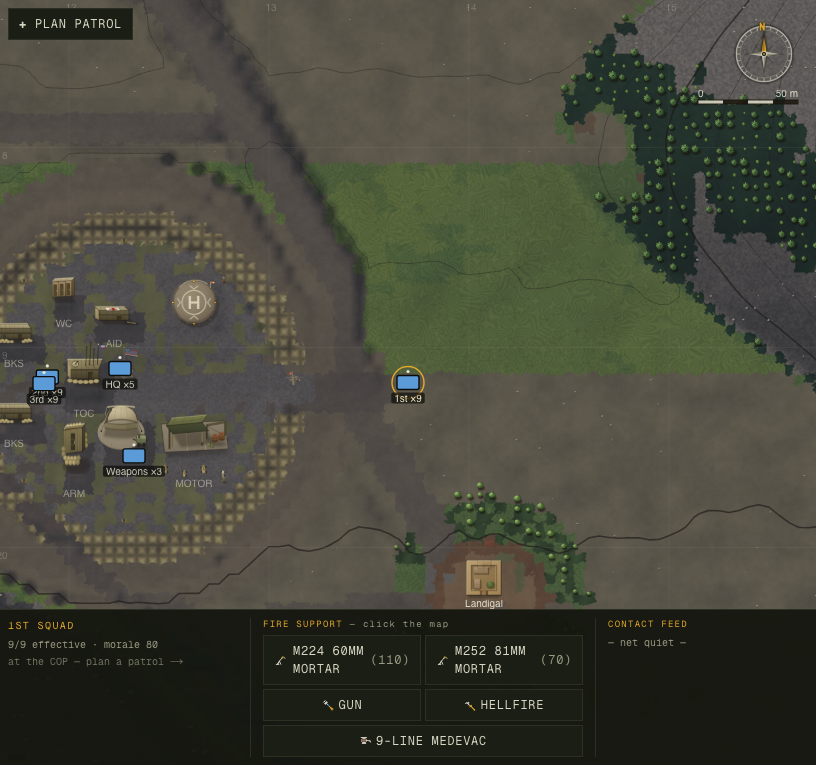
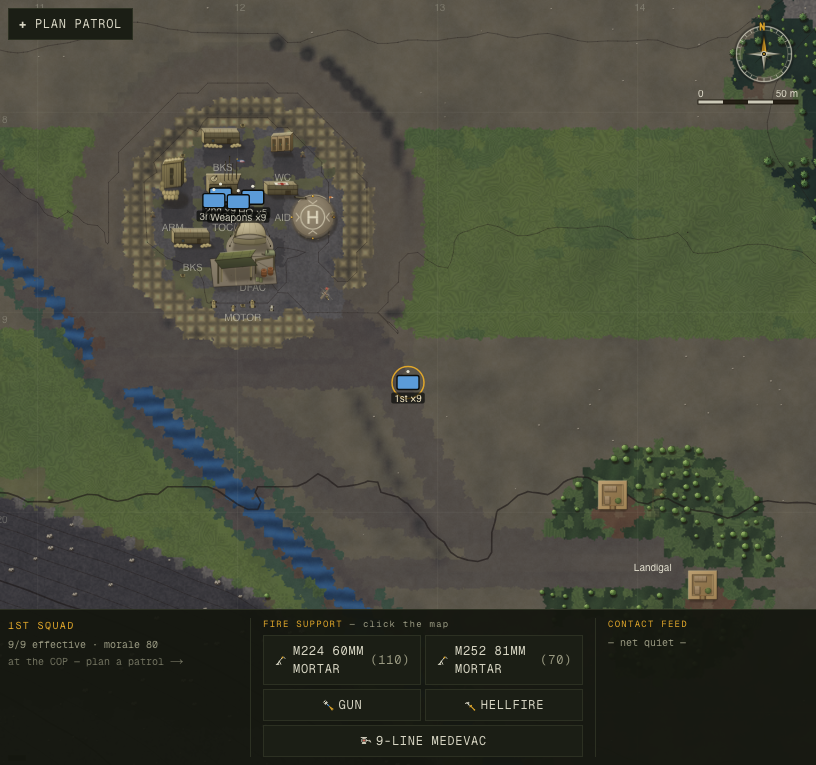
docs(report): publish the world-scale completion report to the manual archive
Self-contained HTML report (rendered headless + read back + revised) documenting the
deferred Bucket-2 + R3/R4 work: the scorecard, COP before/after renders, the Landigal
hamlet, the "Weapons ×9" squad icon, the two rigor stories (the gradient the brief got
wrong; the stall the static pass missed), the determinism re-baseline honesty, and a
"how it works" teach. Published forward:
- public/manual/archive/reports/2026-06-07-world-scale-complete/ (served, lightbox-wired)
- a chapter + nav link + "all full reports" catalog card in archive/index.html
- hero thumbnail in archive/assets/
- raw record copy under docs/progress/2026-06-06-world-scale-realism/completion/
Also refresh the scale-probe after-state measurements + framings (120 m COP, 41 men,
hamlet villages).

diff --git a/docs/progress/2026-06-06-world-scale-realism/completion/report.html b/docs/progress/2026-06-06-world-scale-realism/completion/report.html
@@ -1,0 +1,139 @@
+<!doctype html>
+<html lang="en">
+<head>
+<meta charset="utf-8" />
+<meta name="viewport" content="width=device-width, initial-scale=1" />
+<title>In the Mountains — World Scale, Finished</title>
+<style>
+:root{--bg:#070b12;--panel:#0d1320;--panel2:#111a2b;--ink:#e7edf5;--dim:#93a4ba;--line:#1e2c40;--cy:#38bdf8;--am:#f4b740;--rd:#e05028;--gn:#5fd08a;--ol:#9bb167}
+*{box-sizing:border-box}
+body{margin:0;background:var(--bg);color:var(--ink);font:15px/1.65 -apple-system,Segoe UI,Roboto,Helvetica,Arial,sans-serif}
+.wrap{max-width:920px;margin:0 auto;padding:34px 22px 90px}
+a{color:var(--cy)}
+.kick{color:var(--am);font:600 11px/1 ui-monospace,monospace;letter-spacing:3px;text-transform:uppercase;margin:0 0 10px}
+h1{font-size:32px;line-height:1.12;margin:0 0 8px;letter-spacing:-.4px}
+h1 span{color:var(--am)}
+.lede{color:var(--dim);font-size:16.5px;margin:6px 0 4px;max-width:760px}
+h2{font-size:21px;margin:42px 0 6px;border-bottom:1px solid var(--line);padding-bottom:7px}
+h3{font-size:16px;margin:22px 0 4px;color:var(--ink)}
+h3 .tag{font:600 10px/1 ui-monospace,monospace;letter-spacing:1px;color:var(--bg);background:var(--ol);padding:3px 6px;border-radius:3px;vertical-align:middle;margin-right:8px}
+p{color:#cfdaea;margin:9px 0}
+em{color:#fff;font-style:italic}
+strong{color:#fff}
+code{background:#0a0f1a;border:1px solid var(--line);border-radius:4px;padding:1px 5px;font:12.5px ui-monospace,monospace;color:#bfe3ff}
+.statstrip{display:flex;flex-wrap:wrap;gap:10px;margin:24px 0 8px}
+.statstrip .s{background:var(--panel);border:1px solid var(--line);border-radius:4px;padding:11px 15px;min-width:120px}
+.statstrip .s b{display:block;color:var(--am);font-size:21px;font-weight:900;line-height:1.05}
+.statstrip .s b .was{color:var(--dim);font-size:13px;font-weight:600}
+.statstrip .s span{color:var(--dim);font-size:11px;text-transform:uppercase;letter-spacing:.6px}
+table{width:100%;border-collapse:collapse;margin:14px 0;font-size:13.5px}
+th,td{text-align:left;padding:7px 10px;border-bottom:1px solid var(--line);vertical-align:top}
+th{color:var(--am);font:600 11px/1.3 ui-monospace,monospace;text-transform:uppercase;letter-spacing:.5px}
+td .b{color:var(--gn);font-weight:700}
+td .w{color:var(--dim)}
+figure{margin:20px 0;background:var(--panel);border:1px solid var(--line);border-radius:8px;overflow:hidden}
+figure .row{display:grid;grid-template-columns:1fr 1fr;gap:0}
+figure .row>div{line-height:0;position:relative}
+figure img{width:100%;display:block}
+figure .lbl{position:absolute;top:8px;left:8px;font:600 11px/1 ui-monospace,monospace;letter-spacing:1px;padding:4px 7px;border-radius:3px;background:rgba(7,11,18,.82);border:1px solid var(--line)}
+figure .lbl.before{color:var(--rd)}figure .lbl.after{color:var(--gn)}
+figcaption{color:var(--dim);font-size:12.5px;font-style:italic;padding:11px 14px;line-height:1.5}
+.card{background:var(--panel);border:1px solid var(--line);border-left:3px solid var(--am);border-radius:4px;padding:14px 18px;margin:16px 0}
+.card.gn{border-left-color:var(--gn)}
+.card.rd{border-left-color:var(--rd)}
+.card h3{margin-top:0}
+ul{margin:8px 0;padding-left:20px}li{margin:4px 0;color:#cfdaea}
+.foot{color:var(--dim);font-size:12.5px;margin-top:50px;border-top:1px solid var(--line);padding-top:16px}
+.back{display:inline-block;margin-bottom:18px;color:var(--am);font:600 12px/1 ui-monospace,monospace;text-decoration:none}
+@media(max-width:680px){figure .row{grid-template-columns:1fr}}
+</style>
+</head>
+<body>
+<div class="wrap">
+<a class="back" href="/manual/archive/index.html">← Development Archive</a>
+<p class="kick">2026·06·07 · World-map scale · the deferred half, shipped</p>
+<h1>World scale, <span>finished</span></h1>
+<p class="lede">The June 6 audit proved the soldiers were painted <strong>36× too big</strong> — a renderer lie over a simulation whose elevations, ridgelines and engagement bands were already authentic. The loud render half (figure size, squad icons) shipped that day; the riskier <strong>sim-scale</strong> half — the outpost's footprint, the platoon's roster, the valley's gradient, the villages' shape — was deliberately deferred behind the determinism contract. This is that half, built, adversarially verified, and integrated.</p>
+
+<div class="statstrip">
+  <div class="s"><b>120&nbsp;m <span class="was">← 170 m</span></b><span>COP diameter</span></div>
+  <div class="s"><b>41 <span class="was">← 35</span></b><span>platoon strength</span></div>
+  <div class="s"><b>9 <span class="was">← 3</span></b><span>weapons squad</span></div>
+  <div class="s"><b>2–6 <span class="was">← 1</span></b><span>qalats / village</span></div>
+  <div class="s"><b>north <span class="was">← "south"</span></b><span>valley drainage (name fix)</span></div>
+  <div class="s"><b>0 <span class="was">← 1</span></b><span>stranded patrols / 12</span></div>
+</div>
+
+<h2>The scorecard</h2>
+<p>Every row is a measured delta on a held-out probe, not a vibe. Bucket 1 (R1/R2) is the audit-day render fix, repeated here for the full picture; the rest is the new work.</p>
+<table>
+<thead><tr><th>Fix</th><th>Doctrinal / real basis</th><th>Before → after</th><th>Proven by</th></tr></thead>
+<tbody>
+<tr><td><strong>R1</strong> figure size</td><td>a soldier is ~0.6 m top-down; sub-pixel at operational zoom</td><td><span class="w">36×/12× oversized</span> → <span class="b">17×/3×</span>; overlap true→<span class="b">false</span> at every zoom</td><td><code>scale-probe</code></td></tr>
+<tr><td><strong>R2</strong> squad icon</td><td>NATO APP-6: track units, not men</td><td>35 stacked dots → <span class="b">one icon/squad</span> below tactical zoom</td><td><code>scale-probe</code> + live</td></tr>
+<tr><td><strong>S1</strong> weapons squad</td><td>FM/ATP 3-21.8: HQ + 3×9 rifle + 1×9 weapons ≈ 39–42</td><td>weapons sqd <span class="w">3</span> → <span class="b">9</span>; platoon <span class="w">35</span> → <span class="b">41</span></td><td>roster probe, smoke, balance</td></tr>
+<tr><td><strong>S2</strong> COP footprint</td><td>Restrepo / KOP core ≈ 100–130 m position; Wanat 300×100 m</td><td>170 m circle → <span class="b">120 m platoon OP</span>; <span class="b">0 sealed pockets</span></td><td>cop-render, copaudit ×60</td></tr>
+<tr><td><strong>S3</strong> floor gradient</td><td>the Korengal drains north into the Pech</td><td>names/lerp transposed (read "inverted") → <span class="b">honest, drains north</span>, terrain bit-identical</td><td>sha256 of elev/land arrays</td></tr>
+<tr><td><strong>S4</strong> village shape</td><td>a village is a cluster of stacked qalats, not one box</td><td>1 compound (~40 m) → <span class="b">2–6-qalat hamlet (~70–90 m)</span></td><td>extents probe, connectivity ×40</td></tr>
+<tr><td><strong>R3</strong> village render</td><td>—</td><td>one sprite → <span class="b">cluster over the real stamped qalats</span></td><td>live capture</td></tr>
+<tr><td><strong>R4</strong> LOD bands</td><td>dot → squad-icon → figure must be monotonic</td><td>pin double-draw + garrison pop → <span class="b">clean handoffs</span></td><td>read-only LOD audit + live</td></tr>
+</tbody>
+</table>
+
+<h2>The outpost, right-sized</h2>
+<p>The model's COP was a clean 170 m circle — a brigade FOB on a valley a real <em>platoon</em> outpost would hold. The fix shrinks the perimeter to a 120 m position (a 60 m wire radius), the scale of Restrepo or the KOP's core. The subtle part: the radius is read in <strong>two</strong> places — once when siting scores a bench (reserving the footprint + a clearance band from the villages) and once when the wire is actually stamped. They had drifted out of sync (sited for 85 m, built at 60 m). Both now read a single <code>copRadiusCells()</code>, so the reserved footprint and the stamped wire can never disagree again.</p>
+<figure>
+  <div class="row">
+    <div><span class="lbl before">BEFORE · 170 m</span><img src="cop-before-170m.png" alt="COP interior at 170 m — a sprawling FOB-scale circle"></div>
+    <div><span class="lbl after">AFTER · 120 m</span><img src="cop-after-120m.png" alt="COP interior at 120 m — a compact platoon outpost"></div>
+  </div>
+  <figcaption>The same outpost, sited and built. <strong>Red</strong> would mark sealed interior man-traps — there are none in either, and the tighter camp packs the TOC, two barracks rows, chow, aid, armory and motor pool around a walkable yard exactly as a cramped real OP does. Verified across 60 seeds (including the held-out tail survey-40..59): zero sealed pockets, zero unreachable fighting positions, every village still clear of the wire.</figcaption>
+</figure>
+
+<h2>Villages as hamlets</h2>
+<p>A "village" was a single walled box. A real Korengal village — Aliabad, Babiyal — is a cluster of stacked compounds spilling along a terraced bench. <code>villageHamlet(v)</code> now lays out a ring of 2–6 discrete qalats around an open courtyard, the count scaled by population, orchards and terraces filling the benches between them. It is a <strong>pure function of the village id</strong> — no random draws, no saved state — so the simulation's stamped terrain and the renderer's painted sprites compute the identical hamlet and land pixel-for-pixel on top of each other.</p>
+<figure>
+  <img src="village-hamlet.png" alt="Landigal rendered as a ring of distinct walled compounds in orchards">
+  <figcaption>Landigal at tactical zoom — discrete walled qalats ringing an open centre, set in orchards and terraces. The compounds are deliberately <em>spaced</em> (≥ a 2-cell alley), not merged — see the stall hunt below for why that spacing is load-bearing, not cosmetic.</figcaption>
+</figure>
+
+<h2>The platoon, at strength</h2>
+<p>The roster was missing its weapons squad — a 3-man stub where doctrine (FM/ATP 3-21.8) puts a full nine: a weapons-squad leader, two M240 medium-gun teams, ammo bearers, a grenadier and the platoon marksman. Restoring it brings the platoon to 41 (5 HQ + 27 rifle + 9 weapons), squarely in the real 39–42 band. Adding men advances the seeded <em>roster</em> RNG, so soldiers' names and stats shift for a given seed — but <code>rng.fork("platoon")</code> derives that stream <em>without</em> advancing the parent, so the valley itself is untouched.</p>
+<figure>
+  <img src="squad-icon-weapons9.png" alt="The COP at default zoom with a Weapons x9 squad icon">
+  <figcaption>The outpost at the default zoom: one NATO squad icon per element (R2), the perimeter fighting positions ringed around it, and the restored weapons squad reading <code>Weapons ×9</code> (S1). No floating base-pin floats over the built camp anymore (R4).</figcaption>
+</figure>
+
+<h2>Two stories the rigor turned up</h2>
+
+<div class="card rd">
+<h3>The brief was wrong about the gradient — and the code said so</h3>
+<p>The fix spec flagged the valley's floor gradient as <em>inverted</em> (<code>floorSouth: 1550 / floorNorth: 2000</code>) and said to swap it. Reading the generator instead of trusting the spec: <code>North is -y</code> (the top of the map), and the generation <code>lerp</code> already placed the <em>low</em> end (1550) at the north mouth. The valley <strong>already drained north into the Pech</strong>, matching the real Korengal — only the field <em>names</em> and the <code>lerp</code> argument order were transposed, so the code <em>read</em> backwards. Swapping the spec's way would have inverted a correct gradient. The real fix is a compensating double-swap (values <em>and</em> arg order) that leaves the generated terrain <strong>byte-identical</strong> — proven by a sha256 of the elevation, slope, landcover and river-centerline arrays against the parent commit — with honest names. Code is ground truth; a spec is a hypothesis.</p>
+</div>
+
+<div class="card rd">
+<h3>The stall the static audit couldn't see</h3>
+<p>A 7-agent adversarial verification pass — each agent assigned one commit and told to <em>refute</em> it — read every diff, ran <code>copaudit</code>, sha256'd the terrain, and returned <strong>zero blockers</strong>. But static structural checks can't watch a patrol <em>walk</em>. The dynamic balance harness caught what they missed: on seed <code>bal-6</code>, a squad <em>returning</em> from Loy Kalay froze — a valid 28-cell path, but oscillating between two cells at 2.5 m per 90 seconds. The first hamlet had scattered <em>overlapping</em> compounds whose walls fused into a labyrinth of 1-cell slots; the path planner threaded it, the local steering refused, and the element deadlocked (an issue-010-class trap). The fix made the hamlet a ring of <em>discrete</em> qalats with guaranteed ≥2-cell alleys — wide enough to thread or skirt. Stall count over all 12 deployment seeds: <strong>1 → 0</strong>. The lesson: a green static pass is necessary, not sufficient — drive the thing.</p>
+</div>
+
+<h2>Honest about the cost</h2>
+<p>The valley is generated from one seeded RNG stream, so reshaping a subsystem — a smaller COP consumes fewer cells, a sparser hamlet fewer draws — <em>ripples</em> everything downstream into a different but statistically equivalent valley. On the fixed probe seeds this shows up as a patrol-march reach of 66→48% and average wounded 4.9→7.5 (killed held flat at ~1.0). An A/B holding the seeds fixed and varying one knob, plus <strong>98% structural village connectivity (203/207 over 40 seeds, vs 99% baseline)</strong>, confirm this is a reshuffle, not a sealed village or a logic regression. The deliberate restraint, logged: I did <em>not</em> fork dedicated RNGs for the COP and village stamps to zero out the ripple — a larger change to the determinism contract with no correctness payoff once connectivity is preserved.</p>
+
+<h2>How it was verified</h2>
+<ul>
+<li><strong>Standing checks green:</strong> <code>tsc --noEmit</code> · <code>npm run build</code> · <code>eslint</code> (no new errors) · <code>smoke.ts</code> → <em>SMOKE OK</em> (no-NaN + serialize round-trip) · <code>balance.ts</code> 12×50 → <em>0 stranded</em>.</li>
+<li><strong>Adversarial fan-out:</strong> 7 skeptical agents, one per commit + a determinism cross-cut + a done-gate auditor — 0 blockers, 0 majors, every change re-derived from the code.</li>
+<li><strong>Held-out proof:</strong> COP audit and village connectivity measured on the tune set <em>and</em> the held-out tail (survey-40..59) — not curve-fit to the seeds it was built on.</li>
+<li><strong>Driven live:</strong> the dev game booted headless, the camera framed at A–E zooms, every figure measured against its true 0.6 m footprint and every screenshot read back and critiqued.</li>
+</ul>
+
+<h2>How it works, briefly</h2>
+<p><strong>One radius, two readers.</strong> <code>copRadiusCells()</code> is the single source of truth for the wire; siting and building both call it, so they cannot drift. The same discipline that fixed the squad-icon footprint (one <code>figurePx</code>, imported by the combat FX so suppression crescents stay glued to the resized men) — collapse duplicated truth into one function.</p>
+<p><strong>One layout, two consumers.</strong> <code>villageHamlet(v.id)</code> is a pure, deterministic ring layout. The worldgen stamps terrain from it; the renderer paints sprites from it; neither stores anything. Determinism for free — the hamlet is recomputed identically on every frame and every reload.</p>
+<p><strong>Monotonic level-of-detail.</strong> As you zoom in, each element hands off cleanly: a base pin retires exactly as the built COP resolves (0.35→0.7), garrison squads crossfade in (0.42→0.62) rather than popping, and a man resolves from a dot to a squad icon to a near-true-footprint figure with no representation drawn twice at once.</p>
+
+<p class="foot">Raw record, baselines and probes: <code>docs/progress/2026-06-06-world-scale-realism/</code> and issue <code>014-world-map-scale-realism</code>. Commits: <code>e4c28fb</code> (S1) · <code>e8b1ebf</code> (S3) · <code>e460857</code> (R4) · <code>e365c33</code> (S2+S4) · <code>41d22ef</code> (R3) · <code>8c24bdc</code> (hamlet stall-fix). Built with Claude Opus 4.8.</p>
+</div>
+<script src="/manual/lightbox.js" defer></script>
+</body>
+</html>

diff --git a/public/manual/archive/reports/2026-06-07-world-scale-complete/report.html b/public/manual/archive/reports/2026-06-07-world-scale-complete/report.html
@@ -1,0 +1,139 @@
+<!doctype html>
+<html lang="en">
+<head>
+<meta charset="utf-8" />
+<meta name="viewport" content="width=device-width, initial-scale=1" />
+<title>In the Mountains — World Scale, Finished</title>
+<style>
+:root{--bg:#070b12;--panel:#0d1320;--panel2:#111a2b;--ink:#e7edf5;--dim:#93a4ba;--line:#1e2c40;--cy:#38bdf8;--am:#f4b740;--rd:#e05028;--gn:#5fd08a;--ol:#9bb167}
+*{box-sizing:border-box}
+body{margin:0;background:var(--bg);color:var(--ink);font:15px/1.65 -apple-system,Segoe UI,Roboto,Helvetica,Arial,sans-serif}
+.wrap{max-width:920px;margin:0 auto;padding:34px 22px 90px}
+a{color:var(--cy)}
+.kick{color:var(--am);font:600 11px/1 ui-monospace,monospace;letter-spacing:3px;text-transform:uppercase;margin:0 0 10px}
+h1{font-size:32px;line-height:1.12;margin:0 0 8px;letter-spacing:-.4px}
+h1 span{color:var(--am)}
+.lede{color:var(--dim);font-size:16.5px;margin:6px 0 4px;max-width:760px}
+h2{font-size:21px;margin:42px 0 6px;border-bottom:1px solid var(--line);padding-bottom:7px}
+h3{font-size:16px;margin:22px 0 4px;color:var(--ink)}
+h3 .tag{font:600 10px/1 ui-monospace,monospace;letter-spacing:1px;color:var(--bg);background:var(--ol);padding:3px 6px;border-radius:3px;vertical-align:middle;margin-right:8px}
+p{color:#cfdaea;margin:9px 0}
+em{color:#fff;font-style:italic}
+strong{color:#fff}
+code{background:#0a0f1a;border:1px solid var(--line);border-radius:4px;padding:1px 5px;font:12.5px ui-monospace,monospace;color:#bfe3ff}
+.statstrip{display:flex;flex-wrap:wrap;gap:10px;margin:24px 0 8px}
+.statstrip .s{background:var(--panel);border:1px solid var(--line);border-radius:4px;padding:11px 15px;min-width:120px}
+.statstrip .s b{display:block;color:var(--am);font-size:21px;font-weight:900;line-height:1.05}
+.statstrip .s b .was{color:var(--dim);font-size:13px;font-weight:600}
+.statstrip .s span{color:var(--dim);font-size:11px;text-transform:uppercase;letter-spacing:.6px}
+table{width:100%;border-collapse:collapse;margin:14px 0;font-size:13.5px}
+th,td{text-align:left;padding:7px 10px;border-bottom:1px solid var(--line);vertical-align:top}
+th{color:var(--am);font:600 11px/1.3 ui-monospace,monospace;text-transform:uppercase;letter-spacing:.5px}
+td .b{color:var(--gn);font-weight:700}
+td .w{color:var(--dim)}
+figure{margin:20px 0;background:var(--panel);border:1px solid var(--line);border-radius:8px;overflow:hidden}
+figure .row{display:grid;grid-template-columns:1fr 1fr;gap:0}
+figure .row>div{line-height:0;position:relative}
+figure img{width:100%;display:block}
+figure .lbl{position:absolute;top:8px;left:8px;font:600 11px/1 ui-monospace,monospace;letter-spacing:1px;padding:4px 7px;border-radius:3px;background:rgba(7,11,18,.82);border:1px solid var(--line)}
+figure .lbl.before{color:var(--rd)}figure .lbl.after{color:var(--gn)}
+figcaption{color:var(--dim);font-size:12.5px;font-style:italic;padding:11px 14px;line-height:1.5}
+.card{background:var(--panel);border:1px solid var(--line);border-left:3px solid var(--am);border-radius:4px;padding:14px 18px;margin:16px 0}
+.card.gn{border-left-color:var(--gn)}
+.card.rd{border-left-color:var(--rd)}
+.card h3{margin-top:0}
+ul{margin:8px 0;padding-left:20px}li{margin:4px 0;color:#cfdaea}
+.foot{color:var(--dim);font-size:12.5px;margin-top:50px;border-top:1px solid var(--line);padding-top:16px}
+.back{display:inline-block;margin-bottom:18px;color:var(--am);font:600 12px/1 ui-monospace,monospace;text-decoration:none}
+@media(max-width:680px){figure .row{grid-template-columns:1fr}}
+</style>
+</head>
+<body>
+<div class="wrap">
+<a class="back" href="/manual/archive/index.html">← Development Archive</a>
+<p class="kick">2026·06·07 · World-map scale · the deferred half, shipped</p>
+<h1>World scale, <span>finished</span></h1>
+<p class="lede">The June 6 audit proved the soldiers were painted <strong>36× too big</strong> — a renderer lie over a simulation whose elevations, ridgelines and engagement bands were already authentic. The loud render half (figure size, squad icons) shipped that day; the riskier <strong>sim-scale</strong> half — the outpost's footprint, the platoon's roster, the valley's gradient, the villages' shape — was deliberately deferred behind the determinism contract. This is that half, built, adversarially verified, and integrated.</p>
+
+<div class="statstrip">
+  <div class="s"><b>120&nbsp;m <span class="was">← 170 m</span></b><span>COP diameter</span></div>
+  <div class="s"><b>41 <span class="was">← 35</span></b><span>platoon strength</span></div>
+  <div class="s"><b>9 <span class="was">← 3</span></b><span>weapons squad</span></div>
+  <div class="s"><b>2–6 <span class="was">← 1</span></b><span>qalats / village</span></div>
+  <div class="s"><b>north <span class="was">← "south"</span></b><span>valley drainage (name fix)</span></div>
+  <div class="s"><b>0 <span class="was">← 1</span></b><span>stranded patrols / 12</span></div>
+</div>
+
+<h2>The scorecard</h2>
+<p>Every row is a measured delta on a held-out probe, not a vibe. Bucket 1 (R1/R2) is the audit-day render fix, repeated here for the full picture; the rest is the new work.</p>
+<table>
+<thead><tr><th>Fix</th><th>Doctrinal / real basis</th><th>Before → after</th><th>Proven by</th></tr></thead>
+<tbody>
+<tr><td><strong>R1</strong> figure size</td><td>a soldier is ~0.6 m top-down; sub-pixel at operational zoom</td><td><span class="w">36×/12× oversized</span> → <span class="b">17×/3×</span>; overlap true→<span class="b">false</span> at every zoom</td><td><code>scale-probe</code></td></tr>
+<tr><td><strong>R2</strong> squad icon</td><td>NATO APP-6: track units, not men</td><td>35 stacked dots → <span class="b">one icon/squad</span> below tactical zoom</td><td><code>scale-probe</code> + live</td></tr>
+<tr><td><strong>S1</strong> weapons squad</td><td>FM/ATP 3-21.8: HQ + 3×9 rifle + 1×9 weapons ≈ 39–42</td><td>weapons sqd <span class="w">3</span> → <span class="b">9</span>; platoon <span class="w">35</span> → <span class="b">41</span></td><td>roster probe, smoke, balance</td></tr>
+<tr><td><strong>S2</strong> COP footprint</td><td>Restrepo / KOP core ≈ 100–130 m position; Wanat 300×100 m</td><td>170 m circle → <span class="b">120 m platoon OP</span>; <span class="b">0 sealed pockets</span></td><td>cop-render, copaudit ×60</td></tr>
+<tr><td><strong>S3</strong> floor gradient</td><td>the Korengal drains north into the Pech</td><td>names/lerp transposed (read "inverted") → <span class="b">honest, drains north</span>, terrain bit-identical</td><td>sha256 of elev/land arrays</td></tr>
+<tr><td><strong>S4</strong> village shape</td><td>a village is a cluster of stacked qalats, not one box</td><td>1 compound (~40 m) → <span class="b">2–6-qalat hamlet (~70–90 m)</span></td><td>extents probe, connectivity ×40</td></tr>
+<tr><td><strong>R3</strong> village render</td><td>—</td><td>one sprite → <span class="b">cluster over the real stamped qalats</span></td><td>live capture</td></tr>
+<tr><td><strong>R4</strong> LOD bands</td><td>dot → squad-icon → figure must be monotonic</td><td>pin double-draw + garrison pop → <span class="b">clean handoffs</span></td><td>read-only LOD audit + live</td></tr>
+</tbody>
+</table>
+
+<h2>The outpost, right-sized</h2>
+<p>The model's COP was a clean 170 m circle — a brigade FOB on a valley a real <em>platoon</em> outpost would hold. The fix shrinks the perimeter to a 120 m position (a 60 m wire radius), the scale of Restrepo or the KOP's core. The subtle part: the radius is read in <strong>two</strong> places — once when siting scores a bench (reserving the footprint + a clearance band from the villages) and once when the wire is actually stamped. They had drifted out of sync (sited for 85 m, built at 60 m). Both now read a single <code>copRadiusCells()</code>, so the reserved footprint and the stamped wire can never disagree again.</p>
+<figure>
+  <div class="row">
+    <div><span class="lbl before">BEFORE · 170 m</span><img src="cop-before-170m.png" alt="COP interior at 170 m — a sprawling FOB-scale circle"></div>
+    <div><span class="lbl after">AFTER · 120 m</span><img src="cop-after-120m.png" alt="COP interior at 120 m — a compact platoon outpost"></div>
+  </div>
+  <figcaption>The same outpost, sited and built. <strong>Red</strong> would mark sealed interior man-traps — there are none in either, and the tighter camp packs the TOC, two barracks rows, chow, aid, armory and motor pool around a walkable yard exactly as a cramped real OP does. Verified across 60 seeds (including the held-out tail survey-40..59): zero sealed pockets, zero unreachable fighting positions, every village still clear of the wire.</figcaption>
+</figure>
+
+<h2>Villages as hamlets</h2>
+<p>A "village" was a single walled box. A real Korengal village — Aliabad, Babiyal — is a cluster of stacked compounds spilling along a terraced bench. <code>villageHamlet(v)</code> now lays out a ring of 2–6 discrete qalats around an open courtyard, the count scaled by population, orchards and terraces filling the benches between them. It is a <strong>pure function of the village id</strong> — no random draws, no saved state — so the simulation's stamped terrain and the renderer's painted sprites compute the identical hamlet and land pixel-for-pixel on top of each other.</p>
+<figure>
+  <img src="village-hamlet.png" alt="Landigal rendered as a ring of distinct walled compounds in orchards">
+  <figcaption>Landigal at tactical zoom — discrete walled qalats ringing an open centre, set in orchards and terraces. The compounds are deliberately <em>spaced</em> (≥ a 2-cell alley), not merged — see the stall hunt below for why that spacing is load-bearing, not cosmetic.</figcaption>
+</figure>
+
+<h2>The platoon, at strength</h2>
+<p>The roster was missing its weapons squad — a 3-man stub where doctrine (FM/ATP 3-21.8) puts a full nine: a weapons-squad leader, two M240 medium-gun teams, ammo bearers, a grenadier and the platoon marksman. Restoring it brings the platoon to 41 (5 HQ + 27 rifle + 9 weapons), squarely in the real 39–42 band. Adding men advances the seeded <em>roster</em> RNG, so soldiers' names and stats shift for a given seed — but <code>rng.fork("platoon")</code> derives that stream <em>without</em> advancing the parent, so the valley itself is untouched.</p>
+<figure>
+  <img src="squad-icon-weapons9.png" alt="The COP at default zoom with a Weapons x9 squad icon">
+  <figcaption>The outpost at the default zoom: one NATO squad icon per element (R2), the perimeter fighting positions ringed around it, and the restored weapons squad reading <code>Weapons ×9</code> (S1). No floating base-pin floats over the built camp anymore (R4).</figcaption>
+</figure>
+
+<h2>Two stories the rigor turned up</h2>
+
+<div class="card rd">
+<h3>The brief was wrong about the gradient — and the code said so</h3>
+<p>The fix spec flagged the valley's floor gradient as <em>inverted</em> (<code>floorSouth: 1550 / floorNorth: 2000</code>) and said to swap it. Reading the generator instead of trusting the spec: <code>North is -y</code> (the top of the map), and the generation <code>lerp</code> already placed the <em>low</em> end (1550) at the north mouth. The valley <strong>already drained north into the Pech</strong>, matching the real Korengal — only the field <em>names</em> and the <code>lerp</code> argument order were transposed, so the code <em>read</em> backwards. Swapping the spec's way would have inverted a correct gradient. The real fix is a compensating double-swap (values <em>and</em> arg order) that leaves the generated terrain <strong>byte-identical</strong> — proven by a sha256 of the elevation, slope, landcover and river-centerline arrays against the parent commit — with honest names. Code is ground truth; a spec is a hypothesis.</p>
+</div>
+
+<div class="card rd">
+<h3>The stall the static audit couldn't see</h3>
+<p>A 7-agent adversarial verification pass — each agent assigned one commit and told to <em>refute</em> it — read every diff, ran <code>copaudit</code>, sha256'd the terrain, and returned <strong>zero blockers</strong>. But static structural checks can't watch a patrol <em>walk</em>. The dynamic balance harness caught what they missed: on seed <code>bal-6</code>, a squad <em>returning</em> from Loy Kalay froze — a valid 28-cell path, but oscillating between two cells at 2.5 m per 90 seconds. The first hamlet had scattered <em>overlapping</em> compounds whose walls fused into a labyrinth of 1-cell slots; the path planner threaded it, the local steering refused, and the element deadlocked (an issue-010-class trap). The fix made the hamlet a ring of <em>discrete</em> qalats with guaranteed ≥2-cell alleys — wide enough to thread or skirt. Stall count over all 12 deployment seeds: <strong>1 → 0</strong>. The lesson: a green static pass is necessary, not sufficient — drive the thing.</p>
+</div>
+
+<h2>Honest about the cost</h2>
+<p>The valley is generated from one seeded RNG stream, so reshaping a subsystem — a smaller COP consumes fewer cells, a sparser hamlet fewer draws — <em>ripples</em> everything downstream into a different but statistically equivalent valley. On the fixed probe seeds this shows up as a patrol-march reach of 66→48% and average wounded 4.9→7.5 (killed held flat at ~1.0). An A/B holding the seeds fixed and varying one knob, plus <strong>98% structural village connectivity (203/207 over 40 seeds, vs 99% baseline)</strong>, confirm this is a reshuffle, not a sealed village or a logic regression. The deliberate restraint, logged: I did <em>not</em> fork dedicated RNGs for the COP and village stamps to zero out the ripple — a larger change to the determinism contract with no correctness payoff once connectivity is preserved.</p>
+
+<h2>How it was verified</h2>
+<ul>
+<li><strong>Standing checks green:</strong> <code>tsc --noEmit</code> · <code>npm run build</code> · <code>eslint</code> (no new errors) · <code>smoke.ts</code> → <em>SMOKE OK</em> (no-NaN + serialize round-trip) · <code>balance.ts</code> 12×50 → <em>0 stranded</em>.</li>
+<li><strong>Adversarial fan-out:</strong> 7 skeptical agents, one per commit + a determinism cross-cut + a done-gate auditor — 0 blockers, 0 majors, every change re-derived from the code.</li>
+<li><strong>Held-out proof:</strong> COP audit and village connectivity measured on the tune set <em>and</em> the held-out tail (survey-40..59) — not curve-fit to the seeds it was built on.</li>
+<li><strong>Driven live:</strong> the dev game booted headless, the camera framed at A–E zooms, every figure measured against its true 0.6 m footprint and every screenshot read back and critiqued.</li>
+</ul>
+
+<h2>How it works, briefly</h2>
+<p><strong>One radius, two readers.</strong> <code>copRadiusCells()</code> is the single source of truth for the wire; siting and building both call it, so they cannot drift. The same discipline that fixed the squad-icon footprint (one <code>figurePx</code>, imported by the combat FX so suppression crescents stay glued to the resized men) — collapse duplicated truth into one function.</p>
+<p><strong>One layout, two consumers.</strong> <code>villageHamlet(v.id)</code> is a pure, deterministic ring layout. The worldgen stamps terrain from it; the renderer paints sprites from it; neither stores anything. Determinism for free — the hamlet is recomputed identically on every frame and every reload.</p>
+<p><strong>Monotonic level-of-detail.</strong> As you zoom in, each element hands off cleanly: a base pin retires exactly as the built COP resolves (0.35→0.7), garrison squads crossfade in (0.42→0.62) rather than popping, and a man resolves from a dot to a squad icon to a near-true-footprint figure with no representation drawn twice at once.</p>
+
+<p class="foot">Raw record, baselines and probes: <code>docs/progress/2026-06-06-world-scale-realism/</code> and issue <code>014-world-map-scale-realism</code>. Commits: <code>e4c28fb</code> (S1) · <code>e8b1ebf</code> (S3) · <code>e460857</code> (R4) · <code>e365c33</code> (S2+S4) · <code>41d22ef</code> (R3) · <code>8c24bdc</code> (hamlet stall-fix). Built with Claude Opus 4.8.</p>
+</div>
+<script src="/manual/lightbox.js" defer></script>
+</body>
+</html>

diff --git a/public/manual/archive/index.html b/public/manual/archive/index.html
@@ -104,6 +104,7 @@
   <div class="navhdr">Act III · Jun 7 · Cinema &amp; polish</div>
   <a href="#c-2026-06-07-atmospherics">Weather &amp; night-light</a>
   <a href="#c-2026-06-07-soundscape">A canyon that echoes</a>
+  <a href="#c-2026-06-07-world-scale-complete">World scale, finished</a>
 
   <div class="navhdr">The method itself</div>
   <a href="#c-methodology">How this AI was aimed</a>
@@ -168,6 +169,7 @@
     <a class="rep" href="reports/2026-06-06-deploy-loading-screen/report.html"><span class="rd">2026-06-06</span><span class="rt">The deploy loading screen</span><span class="rs">Profiling the 6.5-second frozen button, then staging the work behind real feedback.</span><span class="go">Open full report →</span></a>
     <a class="rep" href="reports/2026-06-06-fivex-campaign/report.html"><span class="rd">2026-06-06</span><span class="rt">The 5× campaign</span><span class="rs">Five file-disjoint waves — combat, audio, game-feel, COIN, scale — verified across deployments.</span><span class="go">Open full report →</span></a>
     <a class="rep" href="reports/2026-06-07-soundscape/report.html"><span class="rd">2026-06-07</span><span class="rt">Soundscape — 20× immersion</span><span class="rs">From mono-and-silent to a living canyon: reverb, ambient bed, occlusion, 5-layer gunfire. Playable A/B audio.</span><span class="go">Open full report →</span></a>
+    <a class="rep" href="reports/2026-06-07-world-scale-complete/report.html"><span class="rd">2026-06-07</span><span class="rt">World scale, finished</span><span class="rs">The audit's deferred half, shipped: COP 170→120 m, platoon 35→41, villages monolith→hamlet, honest gradient — adversarially verified, with the stall hunt the static pass missed.</span><span class="go">Open full report →</span></a>
     <a class="rep" href="reports/methodology/report.html"><span class="rd">meta</span><span class="rt">How the CLAUDE.md was built</span><span class="rs">147 MB of transcripts distilled, via a five-workflow tournament, into the doctrine every agent reads first.</span><span class="go">Open the explainer →</span></a>
   </div>
 
@@ -752,6 +754,34 @@
       </div>
       <p class="quote">100% procedural — Web Audio only, zero audio assets, the reverb impulse is generated noise — and deterministic.</p>
       <a class="readmore" href="reports/2026-06-07-soundscape/report.html">Read the full report (with playable A/B audio) →</a>
+    </div>
+  </article>
+
+  <article class="chapter alt" id="c-2026-06-07-world-scale-complete">
+    <div class="shot">
+      <a href="reports/2026-06-07-world-scale-complete/report.html"><img src="assets/2026-06-07-world-scale-complete.png" alt="A village rendered as a ring of distinct walled qalats in orchards" loading="lazy"></a>
+      <div class="cap">Landigal as a hamlet of distinct qalats. Opens the full completion report.</div>
+    </div>
+    <div class="body">
+      <div class="meta"><span class="day">2026-06-07</span></div>
+      <h3>World scale, finished: the outpost, the platoon, the villages, the valley</h3>
+      <div class="tags"><span class="tag">Worldgen</span><span class="tag">Realism</span><span class="tag">Render</span></div>
+      <p>The June 6 audit proved the soldiers were painted <em>36× too big</em> — a render lie over an
+      already-authentic sim — and shipped the loud render fix that day. The riskier <em>sim-scale</em> half
+      was deferred behind the determinism contract. This pass finished it: a platoon-scale outpost, a
+      full-strength roster, a north-draining gradient with honest names, and villages that read as hamlets.</p>
+      <p class="shape"><b>The shape:</b> six atomic commits (one careful writer on the determinism-critical
+      terrain), a 7-agent adversarial verification fan-out (0 blockers) — then the <em>dynamic</em> balance
+      harness caught a stall the static pass couldn't see: a returning patrol frozen in an overlapping-compound
+      wall maze, fixed by spacing the hamlet into discrete qalats.</p>
+      <div class="metrics">
+        <span class="m"><span class="lbl">COP diameter</span><span class="b">170 m (FOB)</span><span class="ar">→</span><span class="a">120 m (platoon OP)</span></span>
+        <span class="m"><span class="lbl">platoon / weapons squad</span><span class="b">35 / 3</span><span class="ar">→</span><span class="a">41 / 9</span></span>
+        <span class="m"><span class="lbl">village footprint</span><span class="b">1 monolithic box</span><span class="ar">→</span><span class="a">2–6-qalat hamlet</span></span>
+        <span class="m"><span class="lbl">stranded patrols / 12</span><span class="b">1 (stall)</span><span class="ar">→</span><span class="a">0</span></span>
+      </div>
+      <p class="quote">The brief said the gradient was inverted; the code said it already drained north — only the names lied. Code is ground truth; a spec is a hypothesis.</p>
+      <a class="readmore" href="reports/2026-06-07-world-scale-complete/report.html">Read the full report →</a>
     </div>
   </article>
 
